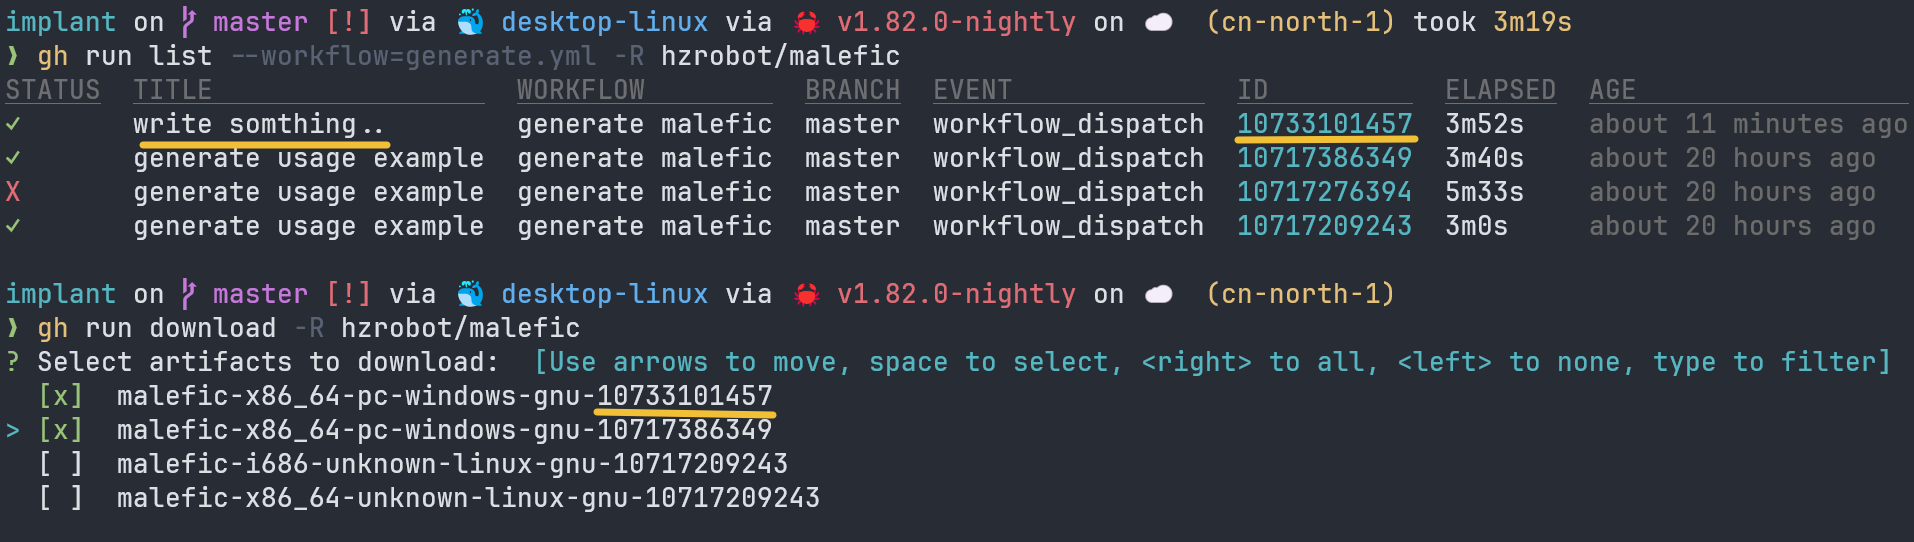
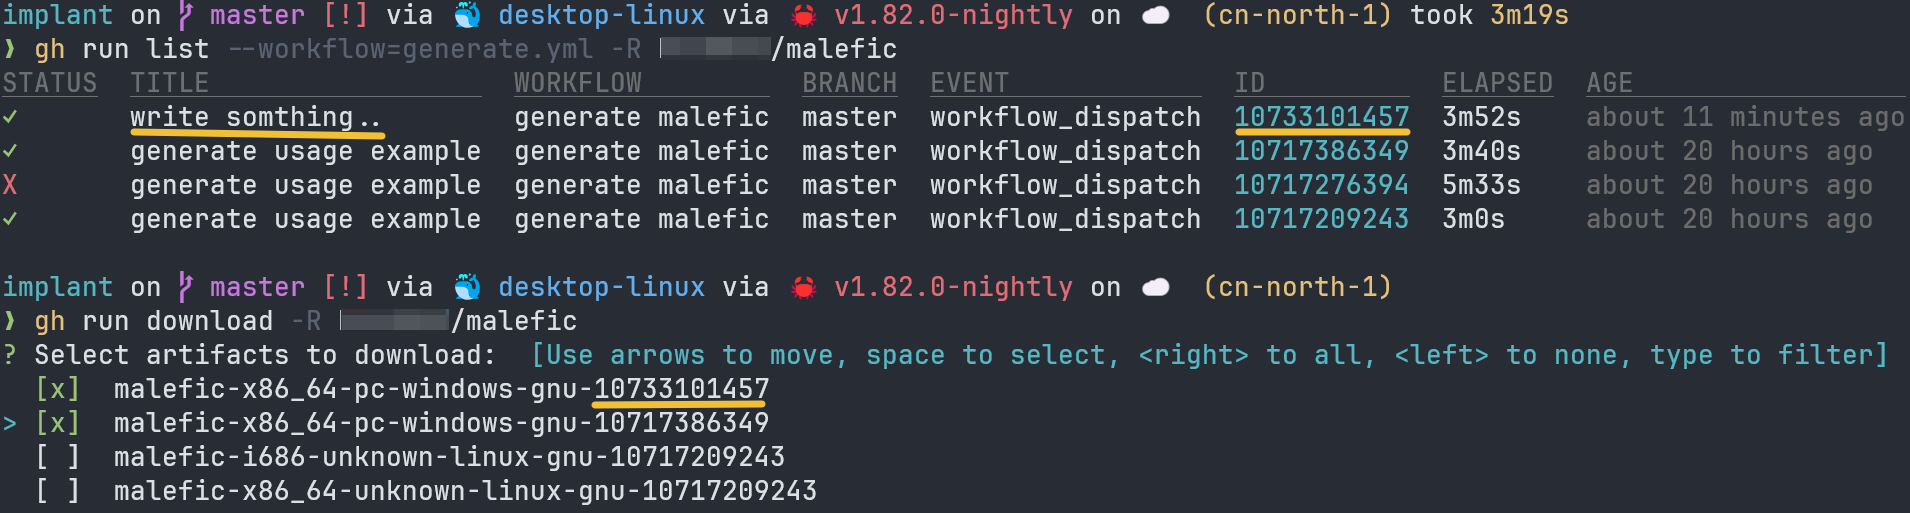
Update instructions for malefic using github action

diff --git a/docs/IoM/manual/implant.md b/docs/IoM/manual/implant.md
@@ -117,7 +117,7 @@ gh run list -R <username/malefic>
 ```bash
 gh run download -R <username/malefic>
 ```
-![gh-run-list-and-download](../assets/gh-run-list-download.png)
+![gh-run-list-download](../assets/gh-run-list-download.png)
 
 注意windows可能没有`base64`, 你可以通过`notepad $PROFILE`自定义一条函数
 ```powershell
